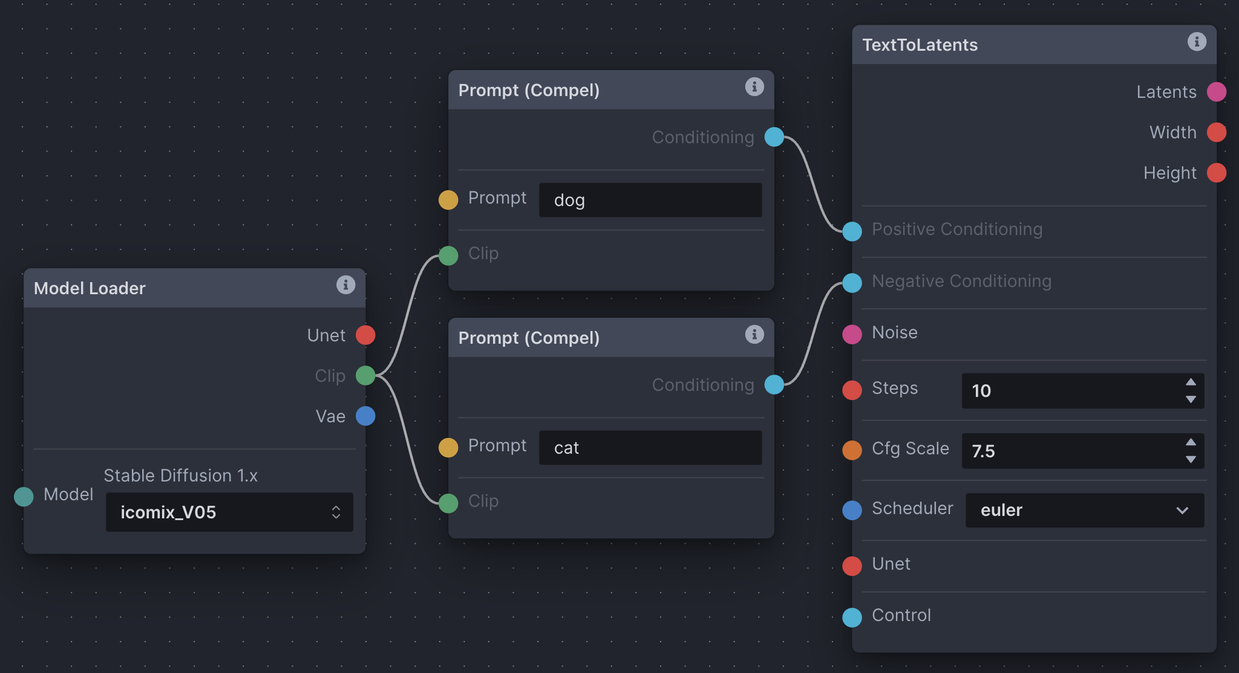
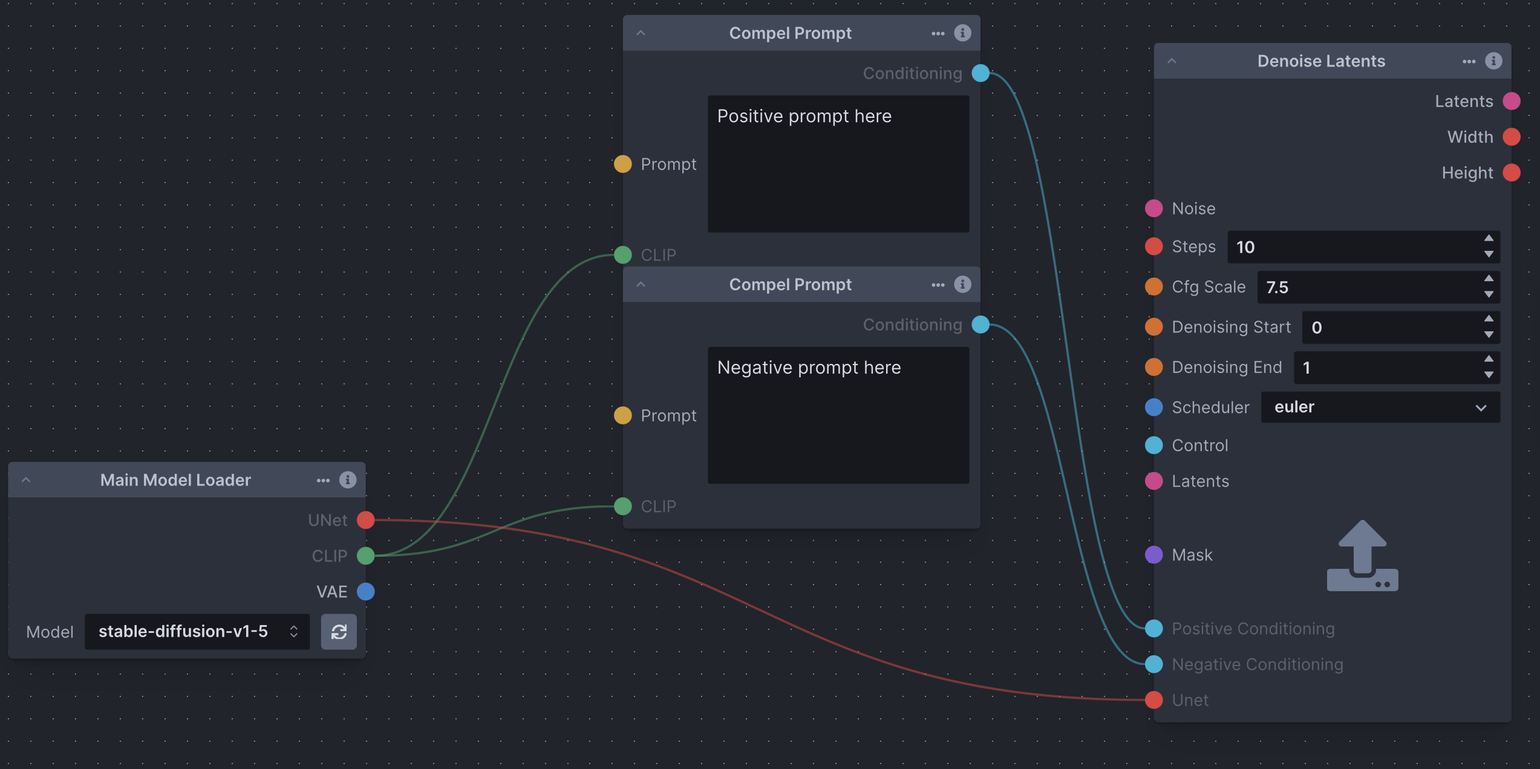
Restructured nodes docs

diff --git a/docs/nodes/NODES.md b/docs/nodes/NODES.md
@@ -1,128 +1,25 @@
-# Nodes Editor (Experimental)
+# Using the Node Editor
 
-🚨
-*The node editor is experimental. We've made it accessible because we use it to develop the application, but we have not addressed the many known rough edges. It's very easy to shoot yourself in the foot, and we cannot offer support for it until it sees full release (ETA v3.1). Everything is subject to change without warning.* 
-🚨
-
-The nodes editor is a blank canvas allowing for the use of individual functions and image transformations to control the image generation workflow. The node processing flow is usually done from left (inputs) to right (outputs), though linearity can become abstracted the more complex the node graph becomes. Nodes inputs and outputs are connected by dragging connectors from node to node.
+The nodes editor is a blank canvas allowing for the use of individual functions and image transformations to control the image generation workflow. The node processing flow is usually done from left (inputs) to right (outputs), but is not always the case the more complex the node graph becomes. Nodes inputs and outputs are connected by dragging connectors from node to node.
 
 To better understand how nodes are used, think of how an electric power bar works. It takes in one input (electricity from a wall outlet) and passes it to multiple devices through multiple outputs. Similarly, a node could have multiple inputs and outputs functioning at the same (or different) time, but all node outputs pass information onward like a power bar passes electricity. Not all outputs are compatible with all inputs, however - Each node has different constraints on how it is expecting to input/output information. In general, node outputs are colour-coded to match compatible inputs of other nodes.
 
-## Anatomy of a Node
 
-Individual nodes are made up of the following:
+If you're not familiar with Diffusion, take a look at our [Diffusion Overview.](../help/diffusion.md) Understanding how diffusion works will enable you to more easily use the Nodes Editor and build workflows to suit your needs.
 
-- Inputs: Edge points on the left side of the node window where you connect outputs from other nodes.
-- Outputs: Edge points on the right side of the node window where you connect to inputs on other nodes.
-- Options: Various options which are either manually configured, or overridden by connecting an output from another node to the input.
-
-## Diffusion Overview
-
-Taking the time to understand the diffusion process will help you to understand how to set up your nodes in the nodes editor. 
-
-There are two main spaces Stable Diffusion works in: image space and latent space.
-
-Image space represents images in pixel form that you look at. Latent space represents compressed inputs. It’s in latent space that Stable Diffusion processes images. A VAE (Variational Auto Encoder) is responsible for compressing and encoding inputs into latent space, as well as decoding outputs back into image space.
-
-When you generate an image using text-to-image, multiple steps occur in latent space:
-1. Random noise is generated at the chosen height and width. The noise’s characteristics are dictated by the chosen (or not chosen) seed. This noise tensor is passed into latent space. We’ll call this noise A.
-1. Using a model’s U-Net, a noise predictor examines noise A, and the words tokenized by CLIP from your prompt (conditioning). It generates its own noise tensor to predict what the final image might look like in latent space. We’ll call this noise B.
-1. Noise B is subtracted from noise A in an attempt to create a final latent image indicative of the inputs. This step is repeated for the number of sampler steps chosen.
-1. The VAE decodes the final latent image from latent space into image space.
-
-image-to-image is a similar process, with only step 1 being different:
-1. The input image is decoded from image space into latent space by the VAE. Noise is then added to the input latent image. Denoising Strength dictates how much noise is added, 0 being none, and 1 being all-encompassing. We’ll call this noise A. The process is then the same as steps 2-4 in the text-to-image explanation above. 
-
-Furthermore, a model provides the CLIP prompt tokenizer, the VAE, and a U-Net (where noise prediction occurs given a prompt and initial noise tensor).
-
-A noise scheduler (eg. DPM++ 2M Karras) schedules the subtraction of noise from the latent image across the sampler steps chosen (step 3 above). Less noise is usually subtracted at higher sampler steps. 
-
-## Node Types (Base Nodes)
-
-| Node <img width=160 align="right"> | Function                                                                              |
-| ---------------------------------- | --------------------------------------------------------------------------------------|
-| Add                                | Adds two numbers |
-| CannyImageProcessor                | Canny edge detection for ControlNet |
-| ClipSkip                           | Skip layers in clip text_encoder model |
-| Collect                            | Collects values into a collection |
-| Prompt (Compel)                    | Parse prompt using compel package to conditioning |
-| ContentShuffleImageProcessor       | Applies content shuffle processing to image |
-| ControlNet                         | Collects ControlNet info to pass to other nodes |
-| CvInpaint                          | Simple inpaint using opencv |
-| Divide                             | Divides two numbers |
-| DynamicPrompt                      | Parses a prompt using adieyal/dynamic prompt's random or combinatorial generator |
-| FloatLinearRange                   | Creates a range |
-| HedImageProcessor                  | Applies HED edge detection to image |
-| ImageBlur                          | Blurs an image |
-| ImageChannel                       | Gets a channel from an image |
-| ImageCollection                    | Load a collection of images and provide it as output |
-| ImageConvert                       | Converts an image to a different mode |
-| ImageCrop                          | Crops an image to a specified box. The box can be outside of the image. |
-| ImageInverseLerp                   | Inverse linear interpolation of all pixels of an image |
-| ImageLerp                          | Linear interpolation of all pixels of an image |
-| ImageMultiply                      | Multiplies two images together using `PIL.ImageChops.Multiply()` |
-| ImageNSFWBlurInvocation            | Detects and blurs images that may contain sexually explicit content |
-| ImagePaste                         | Pastes an image into another image |
-| ImageProcessor                     | Base class for invocations that reprocess images for ControlNet |
-| ImageResize                        | Resizes an image to specific dimensions |
-| ImageScale                         | Scales an image by a factor |
-| ImageToLatents                     | Scales latents by a given factor |
-| ImageWatermarkInvocation           | Adds an invisible watermark to images |
-| InfillColor                        | Infills transparent areas of an image with a solid color |
-| InfillPatchMatch                   | Infills transparent areas of an image using the PatchMatch algorithm |
-| InfillTile                         | Infills transparent areas of an image with tiles of the image |
-| Inpaint                            | Generates an image using inpaint |
-| Iterate                            | Iterates over a list of items |
-| LatentsToImage                     | Generates an image from latents |
-| LatentsToLatents                   | Generates latents using latents as base image |
-| LeresImageProcessor                | Applies leres processing to image |
-| LineartAnimeImageProcessor         | Applies line art anime processing to image |
-| LineartImageProcessor              | Applies line art processing to image |
-| LoadImage                          | Load an image and provide it as output |
-| Lora Loader                        | Apply selected lora to unet and text_encoder |
-| Model Loader                       | Loads a main model, outputting its submodels |
-| MaskFromAlpha                      | Extracts the alpha channel of an image as a mask |
-| MediapipeFaceProcessor             | Applies mediapipe face processing to image |
-| MidasDepthImageProcessor           | Applies Midas depth processing to image |
-| MlsdImageProcessor                 | Applied MLSD processing to image |
-| Multiply                           | Multiplies two numbers |
-| Noise                              | Generates latent noise |
-| NormalbaeImageProcessor            | Applies NormalBAE processing to image |
-| OpenposeImageProcessor             | Applies Openpose processing to image |
-| ParamFloat                         | A float parameter |
-| ParamInt                           | An integer parameter |
-| PidiImageProcessor                 | Applies PIDI processing to an image |
-| Progress Image                     | Displays the progress image in the Node Editor |
-| RandomInit                         | Outputs a single random integer |
-| RandomRange                        | Creates a collection of random numbers |
-| Range                              | Creates a range of numbers from start to stop with step |
-| RangeOfSize                        | Creates a range from start to start + size with step |
-| ResizeLatents                      | Resizes latents to explicit width/height (in pixels). Provided dimensions are floor-divided by 8. |
-| RestoreFace                        | Restores faces in the image |
-| ScaleLatents                       | Scales latents by a given factor |
-| SegmentAnythingProcessor           | Applies segment anything processing to image |
-| ShowImage                          | Displays a provided image, and passes it forward in the pipeline |
-| StepParamEasing                    | Experimental per-step parameter for easing for denoising steps |
-| Subtract                           | Subtracts two numbers |
-| TextToLatents                      | Generates latents from conditionings |
-| TileResampleProcessor              | Bass class for invocations that preprocess images for ControlNet |
-| Upscale                            | Upscales an image |
-| VAE Loader                         | Loads a VAE model, outputting a VaeLoaderOutput |
-| ZoeDepthImageProcessor             | Applies Zoe depth processing to image |
-
-## Node Grouping Concepts
+## Important Concepts
 
 There are several node grouping concepts that can be examined with a narrow focus. These (and other) groupings can be pieced together to make up functional graph setups, and are important to understanding how groups of nodes work together as part of a whole. Note that the screenshots below aren't examples of complete functioning node graphs (see Examples).
 
 ### Noise
 
-As described, an initial noise tensor is necessary for the latent diffusion process. As a result, all non-image *ToLatents nodes require a noise node input.  
+As described, an initial noise tensor is necessary for the latent diffusion process. As a result, the Denoising node requires a noise node input.  
 
 ![groupsnoise](../assets/nodes/groupsnoise.png)
 
 ### Conditioning
 
-As described, conditioning is necessary for the latent diffusion process, whether empty or not. As a result, all non-image *ToLatents nodes require positive and negative conditioning inputs. Conditioning is reliant on a CLIP tokenizer provided by the Model Loader node.
+As described, conditioning is necessary for the latent diffusion process, whether empty or not. As a result, the Denoising node requires positive and negative conditioning inputs. Conditioning is reliant on a CLIP tokenizer provided by the Model Loader node.
 
 ![groupsconditioning](../assets/nodes/groupsconditioning.png)
 
@@ -169,40 +66,3 @@ Multiple image generation in the node editor is done using the RandomRange node.
 To control seeds across generations takes some care. The first row in the screenshot will generate multiple images with different seeds, but using the same RandomRange parameters across invocations will result in the same group of random seeds being used across the images, producing repeatable results. In the second row, adding the RandomInt node as input to RandomRange's 'Seed' edge point will ensure that seeds are varied across all images across invocations, producing varied results.
 
 ![groupsmultigenseeding](../assets/nodes/groupsmultigenseeding.png)
-
-## Examples
-
-With our knowledge of node grouping and the diffusion process, let’s break down some basic graphs in the nodes editor. Note that a node's options can be overridden by inputs from other nodes. These examples aren't strict rules to follow and only demonstrate some basic configurations.
-
-### Basic text-to-image Node Graph
-
-![nodest2i](../assets/nodes/nodest2i.png)
-
-- Model Loader: A necessity to generating images (as we’ve read above). We choose our model from the dropdown. It outputs a U-Net, CLIP tokenizer, and VAE.
-- Prompt (Compel): Another necessity. Two prompt nodes are created. One will output positive conditioning (what you want, ‘dog’), one will output negative (what you don’t want, ‘cat’). They both input the CLIP tokenizer that the Model Loader node outputs.
-- Noise: Consider this noise A from step one of the text-to-image explanation above. Choose a seed number, width, and height.
-- TextToLatents: This node takes many inputs for converting and processing text & noise from image space into latent space, hence the name TextTo**Latents**. In this setup, it inputs positive and negative conditioning from the prompt nodes for processing (step 2 above). It inputs noise from the noise node for processing (steps 2 & 3 above). Lastly, it inputs a U-Net from the Model Loader node for processing (step 2 above). It outputs latents for use in the next LatentsToImage node. Choose number of sampler steps, CFG scale, and scheduler.
-- LatentsToImage: This node takes in processed latents from the TextToLatents node, and the model’s VAE from the Model Loader node which is responsible for decoding latents back into the image space, hence the name LatentsTo**Image**. This node is the last stop, and once the image is decoded, it is saved to the gallery.
-
-### Basic image-to-image Node Graph
-
-![nodesi2i](../assets/nodes/nodesi2i.png)
-
-- Model Loader: Choose a model from the dropdown.
-- Prompt (Compel): Two prompt nodes. One positive (dog), one negative (dog). Same CLIP inputs from the Model Loader node as before.
-- ImageToLatents: Upload a source image directly in the node window, via drag'n'drop from the gallery, or passed in as input. The ImageToLatents node inputs the VAE from the Model Loader node to decode the chosen image from image space into latent space, hence the name ImageTo**Latents**. It outputs latents for use in the next LatentsToLatents node. It also outputs the source image's width and height for use in the next Noise node if the final image is to be the same dimensions as the source image.
-- Noise: A noise tensor is created with the width and height of the source image, and connected to the next LatentsToLatents node. Notice the width and height fields are overridden by the input from the ImageToLatents width and height outputs.
-- LatentsToLatents: The inputs and options are nearly identical to TextToLatents, except that LatentsToLatents also takes latents as an input. Considering our source image is already converted to latents in the last ImageToLatents node, and text + noise are no longer the only inputs to process, we use the LatentsToLatents node. 
-- LatentsToImage: Like previously, the LatentsToImage node will use the VAE from the Model Loader as input to decode the latents from LatentsToLatents into image space, and save it to the gallery.
-
-### Basic ControlNet Node Graph
-
-![nodescontrol](../assets/nodes/nodescontrol.png)
-
-- Model Loader
-- Prompt (Compel)
-- Noise: Width and height of the CannyImageProcessor ControlNet image is passed in to set the dimensions of the noise passed to TextToLatents.
-- CannyImageProcessor: The CannyImageProcessor node is used to process the source image being used as a ControlNet. Each ControlNet processor node applies control in different ways, and has some different options to configure. Width and height are passed to noise, as mentioned. The processed ControlNet image is output to the ControlNet node.
-- ControlNet: Select the type of control model. In this case, canny is chosen as the CannyImageProcessor was used to generate the ControlNet image. Configure the control node options, and pass the control output to TextToLatents.
-- TextToLatents: Similar to the basic text-to-image example, except ControlNet is passed to the control input edge point.
-- LatentsToImage

diff --git a/docs/nodes/defaultNodes.md b/docs/nodes/defaultNodes.md
@@ -1,0 +1,97 @@
+# List of Default Nodes
+
+The table below contains a list of the default nodes shipped with InvokeAI and their descriptions. 
+
+| Node <img width=160 align="right"> | Function                                                                              |
+|: ---------------------------------- | :--------------------------------------------------------------------------------------|
+|Add Integers 			| Adds two numbers|
+|Boolean Primitive Collection 			| A collection of boolean primitive values|
+|Boolean Primitive 			| A boolean primitive value|
+|Canny Processor 			| Canny edge detection for ControlNet|
+|CLIP Skip 			| Skip layers in clip text_encoder model.|
+|Collect 			| Collects values into a collection|
+|Color Correct 			| Shifts the colors of a target image to match the reference image, optionally using a mask to only color-correct certain regions of the target image.|
+|Color Primitive 			| A color primitive value|
+|Compel Prompt 			| Parse prompt using compel package to conditioning.|
+|Conditioning Primitive Collection 			| A collection of conditioning tensor primitive values|
+|Conditioning Primitive 			| A conditioning tensor primitive value|
+|Content Shuffle Processor 			| Applies content shuffle processing to image|
+|ControlNet 			| Collects ControlNet info to pass to other nodes|
+|OpenCV Inpaint 			| Simple inpaint using opencv.|
+|Denoise Latents 			| Denoises noisy latents to decodable images|
+|Divide Integers 			| Divides two numbers|
+|Dynamic Prompt 			| Parses a prompt using adieyal/dynamicprompts' random or combinatorial generator|
+|Upscale (RealESRGAN) 			| Upscales an image using RealESRGAN.|
+|Float Primitive Collection 			| A collection of float primitive values|
+|Float Primitive 			| A float primitive value|
+|Float Range 			| Creates a range|
+|HED (softedge) Processor 			| Applies HED edge detection to image|
+|Blur Image 			| Blurs an image|
+|Extract Image Channel 			| Gets a channel from an image.|
+|Image Primitive Collection 			| A collection of image primitive values|
+|Convert Image Mode 			| Converts an image to a different mode.|
+|Crop Image 			| Crops an image to a specified box. The box can be outside of the image.|
+|Image Hue Adjustment 			| Adjusts the Hue of an image.|
+|Inverse Lerp Image 			| Inverse linear interpolation of all pixels of an image|
+|Image Primitive 			| An image primitive value|
+|Lerp Image 			| Linear interpolation of all pixels of an image|
+|Image Luminosity Adjustment 			| Adjusts the Luminosity (Value) of an image.|
+|Multiply Images 			| Multiplies two images together using `PIL.ImageChops.multiply()`.|
+|Blur NSFW Image 			| Add blur to NSFW-flagged images|
+|Paste Image 			| Pastes an image into another image.|
+|ImageProcessor 			| Base class for invocations that preprocess images for ControlNet|
+|Resize Image 			| Resizes an image to specific dimensions|
+|Image Saturation Adjustment 			| Adjusts the Saturation of an image.|
+|Scale Image 			| Scales an image by a factor|
+|Image to Latents 			| Encodes an image into latents.|
+|Add Invisible Watermark 			| Add an invisible watermark to an image|
+|Solid Color Infill 			| Infills transparent areas of an image with a solid color|
+|PatchMatch Infill 			| Infills transparent areas of an image using the PatchMatch algorithm|
+|Tile Infill 			| Infills transparent areas of an image with tiles of the image|
+|Integer Primitive Collection 			| A collection of integer primitive values|
+|Integer Primitive 			| An integer primitive value|
+|Iterate 			| Iterates over a list of items|
+|Latents Primitive Collection 			| A collection of latents tensor primitive values|
+|Latents Primitive 			| A latents tensor primitive value|
+|Latents to Image 			| Generates an image from latents.|
+|Leres (Depth) Processor 			| Applies leres processing to image|
+|Lineart Anime Processor 			| Applies line art anime processing to image|
+|Lineart Processor 			| Applies line art processing to image|
+|LoRA Loader 			| Apply selected lora to unet and text_encoder.|
+|Main Model Loader 			| Loads a main model, outputting its submodels.|
+|Combine Mask 			| Combine two masks together by multiplying them using `PIL.ImageChops.multiply()`.|
+|Mask Edge 			| Applies an edge mask to an image|
+|Mask from Alpha 			| Extracts the alpha channel of an image as a mask.|
+|Mediapipe Face Processor 			| Applies mediapipe face processing to image|
+|Midas (Depth) Processor 			| Applies Midas depth processing to image|
+|MLSD Processor 			| Applies MLSD processing to image|
+|Multiply Integers 			| Multiplies two numbers|
+|Noise 			| Generates latent noise.|
+|Normal BAE Processor 			| Applies NormalBae processing to image|
+|ONNX Latents to Image 			| Generates an image from latents.|
+|ONNX Prompt (Raw) 			| A node to process inputs and produce outputs. May use dependency injection in __init__ to receive providers.|
+|ONNX Text to Latents 			| Generates latents from conditionings.|
+|ONNX Model Loader 			| Loads a main model, outputting its submodels.|
+|Openpose Processor 			| Applies Openpose processing to image|
+|PIDI Processor 			| Applies PIDI processing to image|
+|Prompts from File 			| Loads prompts from a text file|
+|Random Integer 			| Outputs a single random integer.|
+|Random Range 			| Creates a collection of random numbers|
+|Integer Range 			| Creates a range of numbers from start to stop with step|
+|Integer Range of Size 			| Creates a range from start to start + size with step|
+|Resize Latents 			| Resizes latents to explicit width/height (in pixels). Provided dimensions are floor-divided by 8.|
+|SDXL Compel Prompt 			| Parse prompt using compel package to conditioning.|
+|SDXL LoRA Loader 			| Apply selected lora to unet and text_encoder.|
+|SDXL Main Model Loader 			| Loads an sdxl base model, outputting its submodels.|
+|SDXL Refiner Compel Prompt 			| Parse prompt using compel package to conditioning.|
+|SDXL Refiner Model Loader 			| Loads an sdxl refiner model, outputting its submodels.|
+|Scale Latents 			| Scales latents by a given factor.|
+|Segment Anything Processor 			| Applies segment anything processing to image|
+|Show Image 			| Displays a provided image, and passes it forward in the pipeline.|
+|Step Param Easing 			| Experimental per-step parameter easing for denoising steps|
+|String Primitive Collection 			| A collection of string primitive values|
+|String Primitive 			| A string primitive value|
+|Subtract Integers 			| Subtracts two numbers|
+|Tile Resample Processor 			| Tile resampler processor|
+|VAE Loader 			| Loads a VAE model, outputting a VaeLoaderOutput|
+|Zoe (Depth) Processor 			| Applies Zoe depth processing to image|

diff --git a/docs/help/diffusion.md b/docs/help/diffusion.md
@@ -1,0 +1,20 @@
+## Diffusion Overview
+
+Taking the time to understand the diffusion process will help you to understand how to more effectively use InvokeAI.
+
+There are two main spaces Stable Diffusion works in: image space and latent space.
+
+Image space represents images in pixel form that you look at. Latent space represents compressed inputs. It’s in latent space that Stable Diffusion processes images. A VAE (Variational Auto Encoder) is responsible for compressing and encoding inputs into latent space, as well as decoding outputs back into image space.
+
+When you generate an image using text-to-image, multiple steps occur in latent space:
+1. Random noise is generated at the chosen height and width. The noise’s characteristics are dictated by the chosen (or not chosen) seed. This noise tensor is passed into latent space. We’ll call this noise A.
+1. Using a model’s U-Net, a noise predictor examines noise A, and the words tokenized by CLIP from your prompt (conditioning). It generates its own noise tensor to predict what the final image might look like in latent space. We’ll call this noise B.
+1. Noise B is subtracted from noise A in an attempt to create a final latent image indicative of the inputs. This step is repeated for the number of sampler steps chosen.
+1. The VAE decodes the final latent image from latent space into image space.
+
+image-to-image is a similar process, with only step 1 being different:
+1. The input image is decoded from image space into latent space by the VAE. Noise is then added to the input latent image. Denoising Strength dictates how much noise is added, 0 being none, and 1 being all-encompassing. We’ll call this noise A. The process is then the same as steps 2-4 in the text-to-image explanation above. 
+
+Furthermore, a model provides the CLIP prompt tokenizer, the VAE, and a U-Net (where noise prediction occurs given a prompt and initial noise tensor).
+
+A noise scheduler (eg. DPM++ 2M Karras) schedules the subtraction of noise from the latent image across the sampler steps chosen (step 3 above). Less noise is usually subtracted at higher sampler steps. 

diff --git a/docs/nodes/communityNodes.md b/docs/nodes/communityNodes.md
@@ -2,9 +2,9 @@
 
 These are nodes that have been developed by the community, for the community. If you're not sure what a node is, you can learn more about nodes [here](overview.md).
 
-If you'd like to submit a node for the community, please refer to the [node creation overview](./overview.md#contributing-nodes).
+If you'd like to submit a node for the community, please refer to the [node creation overview](contributingNodes.md).
 
-To download a node, simply download the `.py` node file from the link and add it to the `.venv/lib/python3.x/site-packages/invokeai/app/invocations` folder in your Invoke AI install location. Along with the node, an example node graph should be provided to help you get started with the node. 
+To download a node, simply download the `.py` node file from the link and add it to the `invokeai/app/invocations` folder in your Invoke AI install location. Along with the node, an example node graph should be provided to help you get started with the node. 
 
 To use a community node graph, download the the `.json` node graph file and load it into Invoke AI via the **Load Nodes** button on the Node Editor. 
 
@@ -46,7 +46,7 @@ To use a community node graph, download the the `.json` node graph file and load
 
 ## Disclaimer
 
-The nodes linked below have been developed and contributed by members of the Invoke AI community. While we strive to ensure the quality and safety of these contributions, we do not guarantee the reliability or security of the nodes. If you have issues or concerns with any of the nodes below, please raise it on GitHub or in the Discord.
+The nodes linked have been developed and contributed by members of the Invoke AI community. While we strive to ensure the quality and safety of these contributions, we do not guarantee the reliability or security of the nodes. If you have issues or concerns with any of the nodes below, please raise it on GitHub or in the Discord.
 
 
 ## Help

diff --git a/docs/nodes/overview.md b/docs/nodes/overview.md
@@ -5,13 +5,22 @@ An Node is simply a single operation that takes in inputs and returns
 out outputs. Multiple nodes can be linked together to create more
 complex functionality. All InvokeAI features are added through nodes.
 
+### Anatomy of a Node
+
+Individual nodes are made up of the following:
+
+- Inputs: Edge points on the left side of the node window where you connect outputs from other nodes.
+- Outputs: Edge points on the right side of the node window where you connect to inputs on other nodes.
+- Options: Various options which are either manually configured, or overridden by connecting an output from another node to the input.
+
+
 With nodes, you can can easily extend the image generation capabilities of InvokeAI, and allow you build workflows that suit your needs. 
 
 You can read more about nodes and the node editor [here](../nodes/NODES.md). 
 
-To get started with nodes, take a look at some of our examples for [common workflows]()
+To get started with nodes, take a look at some of our examples for [common workflows](../nodes/exampleWorkflows.md)
 
-## Downloading Nodes
-To download a new node, visit our list of [Community Nodes](communityNodes.md). These are nodes that have been created by the community, for the community. 
+## Downloading New Nodes
+To download a new node, visit our list of [Community Nodes](../nodes/communityNodes.md). These are nodes that have been created by the community, for the community. 
 
 

diff --git a/docs/nodes/contributingNodes.md b/docs/nodes/contributingNodes.md
@@ -3,10 +3,11 @@
 To learn about creating a new node, please visit our [Node creation documenation](../contributing/INVOCATIONS.md). 
 
 Once you’ve created a node and confirmed that it behaves as expected locally, follow these steps: 
-* Make sure the node is contained in a new Python (.py) file 
-* Submit a pull request with a link to your node in GitHub against the `nodes` branch to add the node to the [Community Nodes](Community Nodes) list
-    * Make sure you are following the template below and have provided all relevant details about the node and what it does.
-* A maintainer will review the pull request and node. If the node is aligned with the direction of the project, you might be asked for permission to include it in the core project.
+
+- Make sure the node is contained in a new Python (.py) file 
+- Submit a pull request with a link to your node in GitHub against the `nodes` branch to add the node to the [Community Nodes](Community Nodes) list
+    - Make sure you are following the template below and have provided all relevant details about the node and what it does.
+- A maintainer will review the pull request and node. If the node is aligned with the direction of the project, you might be asked for permission to include it in the core project.
 
 ### Community Node Template
 

diff --git a/docs/nodes/comfyToInvoke.md b/docs/nodes/comfyToInvoke.md
@@ -1,0 +1,12 @@
+# ComfyUI to InvokeAI
+
+If you're coming to InvokeAI from ComfyUI, welcome! You'll find things are similar but different - the good news is that you already know how things should work, and it's just a matter of wiring them up! 
+
+Some things to note: 
+
+- InvokeAI's nodes tend to be more granular than default nodes in Comfy. This means each node in Invoke will do a specific task and you might need to use multiple nodes to achieve the same result. The added granularity improves the control you have have over your workflows. 
+- InvokeAI's backend and ComfyUI's backend are very different and Comfy workflows are not able to be imported into InvokeAI. However, we have created a list of popular workflows for you to get started with Nodes in InvokeAI!
+
+
+
+

diff --git a/docs/features/index.md b/docs/features/index.md
@@ -30,10 +30,6 @@ image output.
 ### * [Image-to-Image Guide](IMG2IMG.md)
 Use a seed image to build new creations in the CLI.
 
-### * [Generating Variations](VARIATIONS.md)
-Have an image you like and want to generate many more like it? Variations
-are the ticket.
-
 ## Model Management
 
 ### * [Model Installation](../installation/050_INSTALLING_MODELS.md)

diff --git a/docs/nodes/exampleWorkflows.md b/docs/nodes/exampleWorkflows.md
@@ -1,0 +1,15 @@
+# Example Workflows
+
+TODO: Will update once uploading workflows is available.
+
+## Text2Image
+
+## Image2Image
+
+## ControlNet
+
+## Upscaling
+
+## Inpainting / Outpainting
+
+## LoRAs
